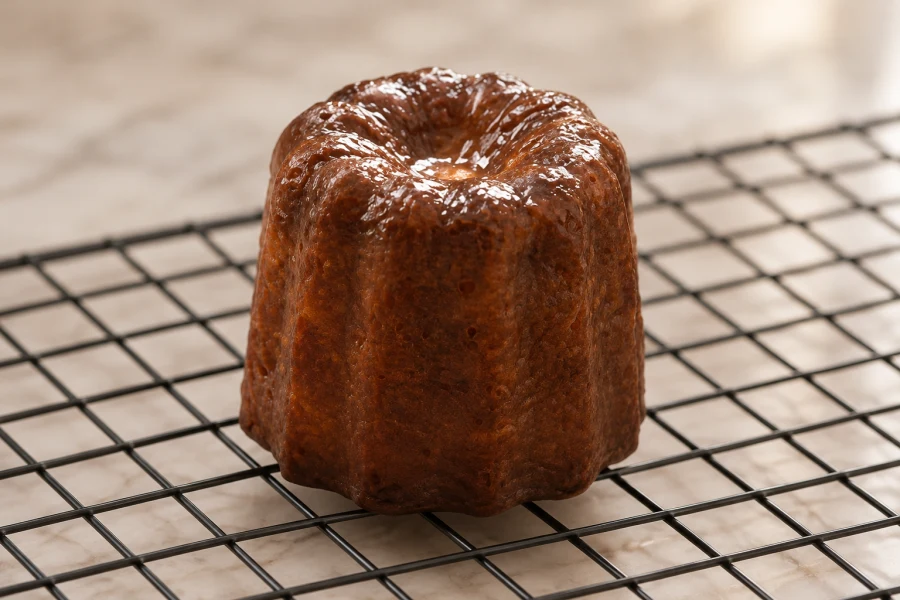
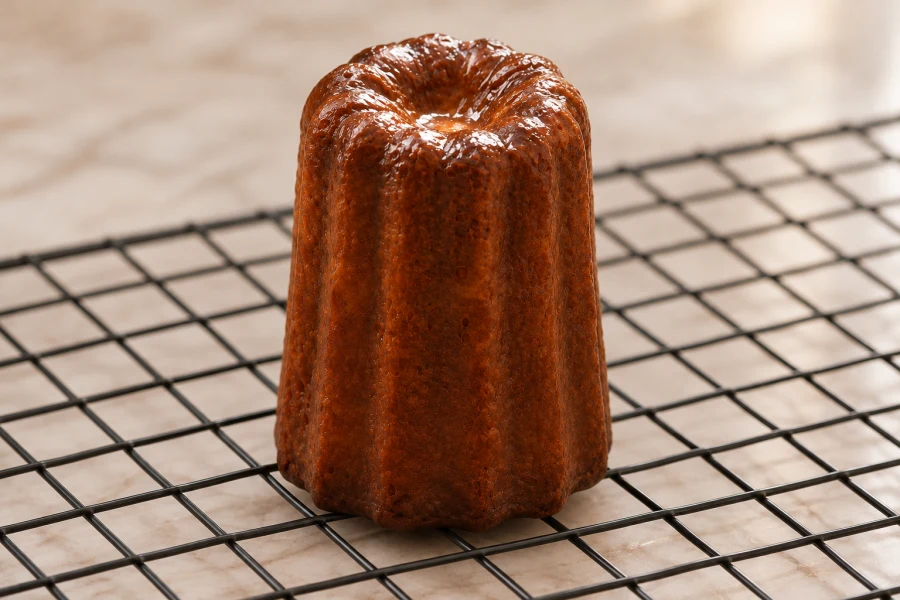
Lengthen the fluted body across all eight canelé photos

diff --git a/canele.html b/canele.html
@@ -46,7 +46,7 @@
 </main>
 <div class="cm-bar" id="bar" hidden></div>
 <dialog id="box-quantity" class="cm-quantity" aria-labelledby="quantity-title"></dialog>
-<script src="js/config.js?v=1125g"></script>
+<script src="js/config.js?v=1125h"></script>
 <script src="js/app.js?v=1124c"></script>
 <script src="js/shop.js?v=1123k"></script>
 <script>
@@ -81,7 +81,7 @@
   function photo(product) {
     const filename = PHOTO[product.id.replace(/^canele-/, '')];
     const custom = product.photo && !product.photo.startsWith('assets/v2/01-canele/photo-');
-    return custom || !filename ? product.photo : `assets/v2/01-canele/photo-${filename}.webp?v=1125g`;
+    return custom || !filename ? product.photo : `assets/v2/01-canele/photo-${filename}.webp?v=1125h`;
   }
 
   function announce(message) {

diff --git a/js/config.js b/js/config.js
@@ -7,7 +7,7 @@ window.NTC_CONFIG = {
   home: 'index.html',
   cookiePhotoSize: 900,
   cookiePhotoBackground: '#FAD7DC', // 造型餅乾單片固定粉紅底
-  version: '2026-11-25 V10.20', // 每次上版改這裡，後台最下面會顯示
+  version: '2026-11-25 V10.21', // 每次上版改這裡，後台最下面會顯示
 };
 
 document.documentElement.style.setProperty('--cookie-photo-background', window.NTC_CONFIG.cookiePhotoBackground);
